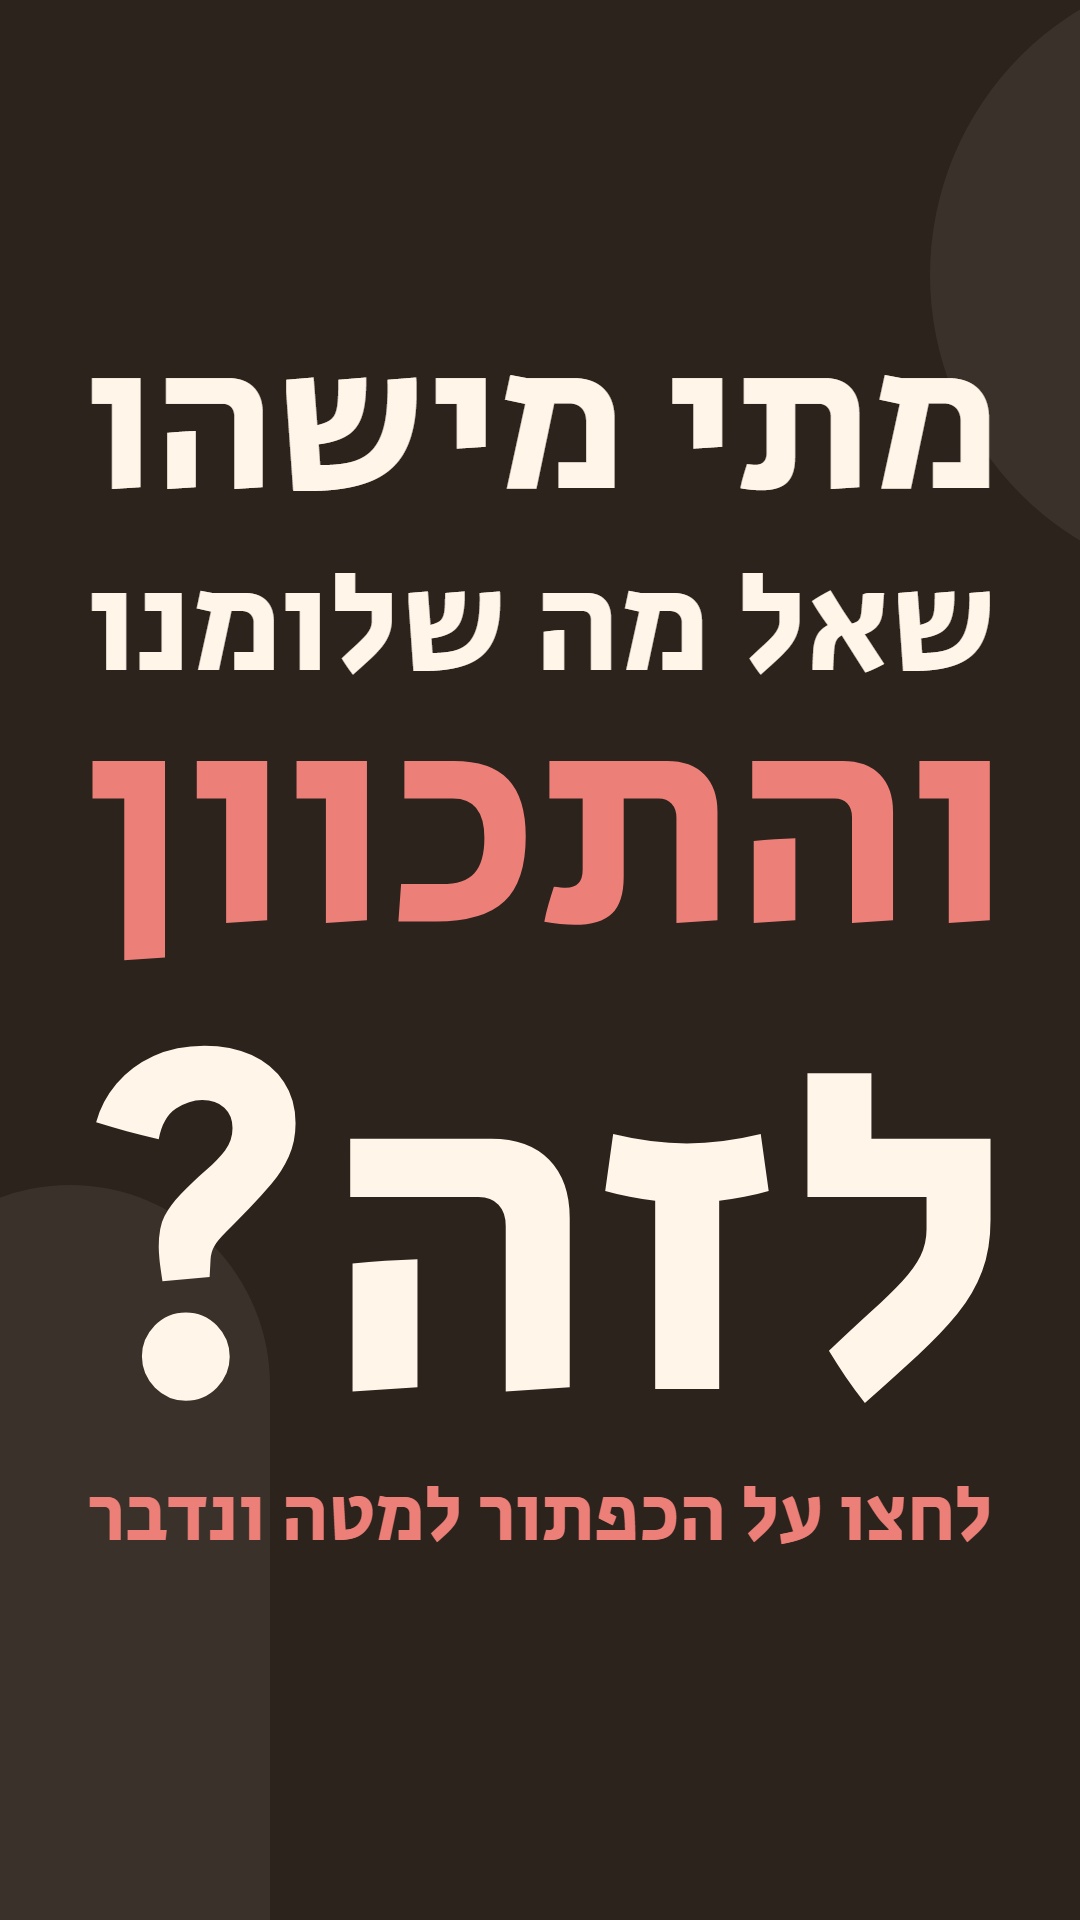
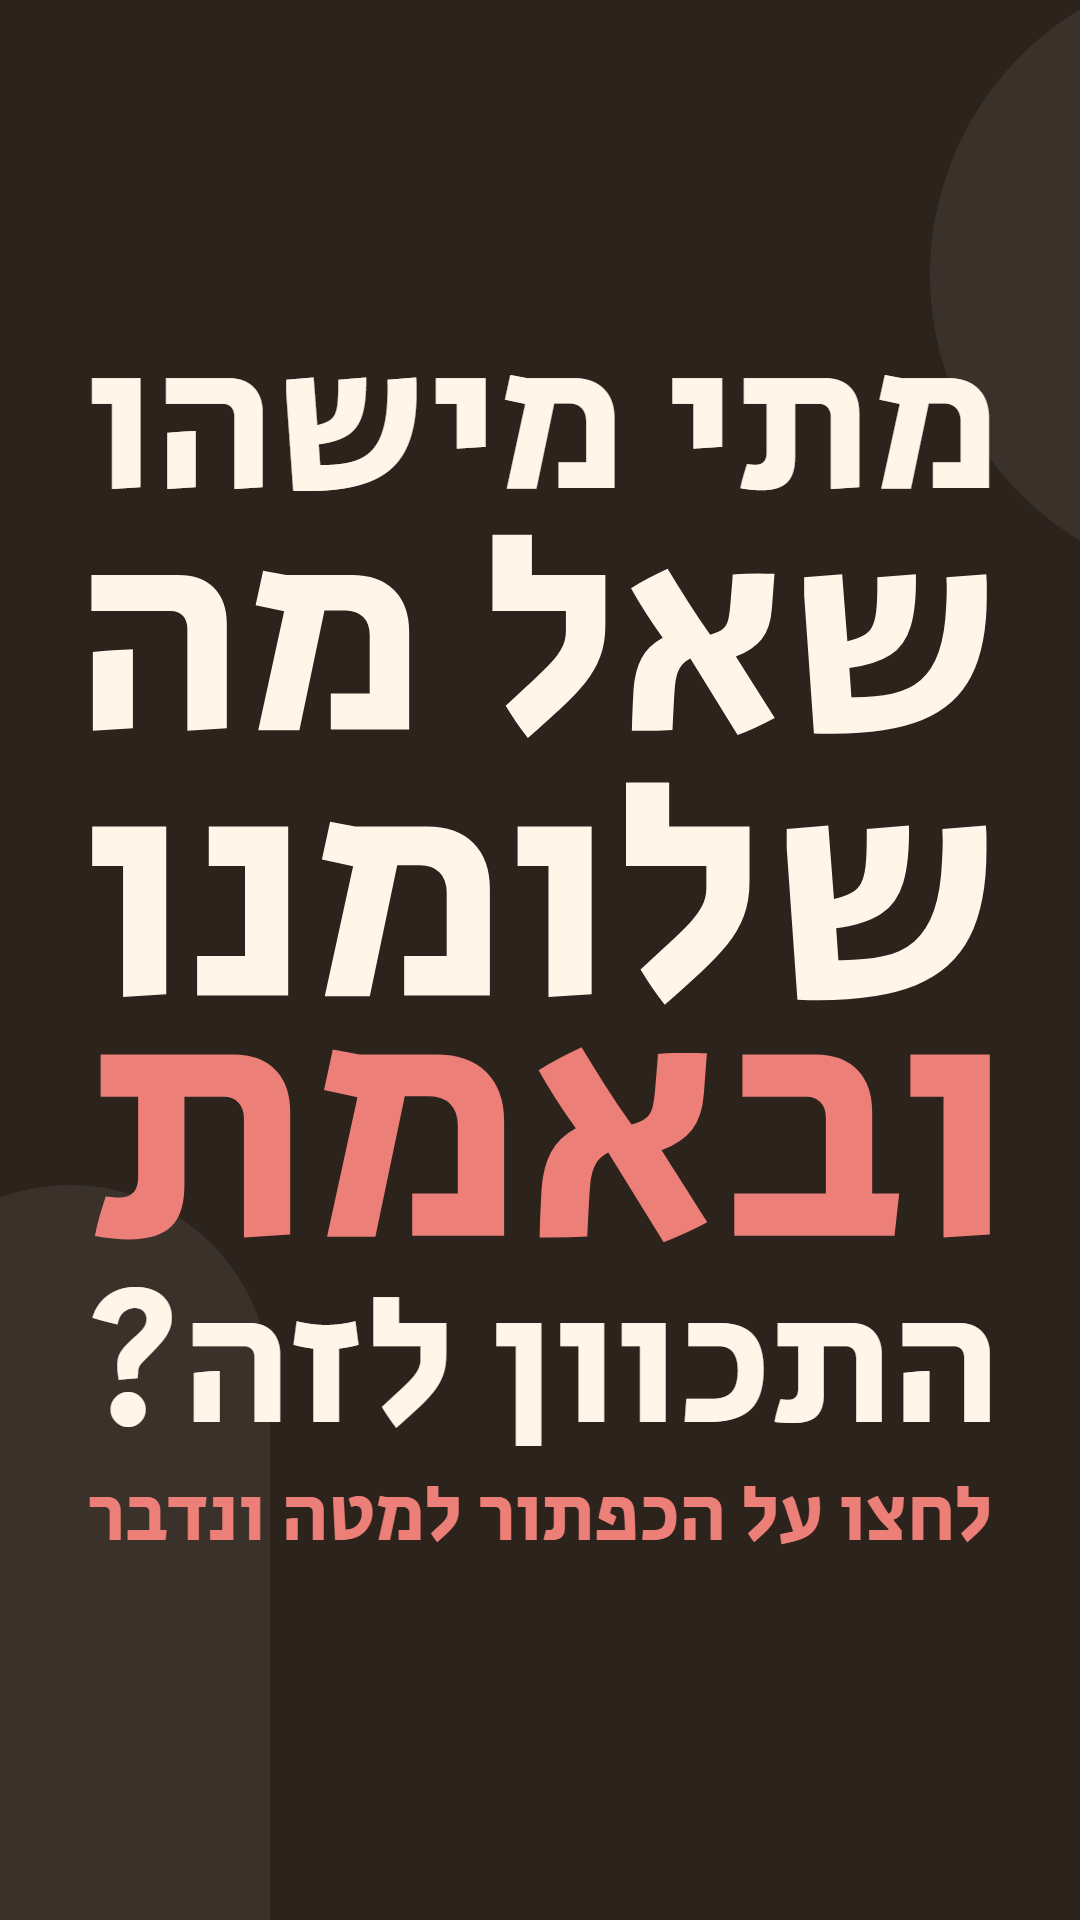
deploy test

Changed region(s): [[0.0611, 0.2812, 0.9167, 0.75]]

diff --git a/privacy/index.html b/privacy/index.html
@@ -54,6 +54,7 @@
       <li>כדי לשלוח הודעות שירות הקשורות לפעילות שלכם, למשל אישור או דחיית דיווח תשלום.</li>
       <li>כדי להבין כיצד משתמשים באתר ולשפר אותו, ולמדוד את יעילות הפרסום שלנו.</li>
       <li>כדי לנהל שיחה עם הבוט שבדף השיחה (chat): השיחה נשמרת אצלנו כדי לשפר את השירות, והתוכן שלה נשלח לספק בינה מלאכותית שמפיק את התשובות. כדאי לא לכתוב בה פרטים מזהים או רגישים.</li>
+      <li>כדי להגן על הצ'אט מניצול לרעה: אנחנו שומרים מזהה אקראי של הדפדפן ותמצית מוצפנת של כתובת הרשת (לא הכתובת עצמה), ומוחקים אותם אחרי כשבועיים.</li>
     </ul>
     <p>אנחנו לא מוכרים מידע אישי, לא משכירים אותו, ולא משתמשים בו לשום מטרה שאינה המטרות שפורטו כאן.</p>
 
@@ -114,7 +115,7 @@
       <p>We do not collect payment card details. Payments are made through an external service (Paybox or another method you choose).</p>
 
       <h2>How we use it</h2>
-      <p>To register you for meetups and manage payments; to contact you about meetups; to provide your personal area; to send service messages (for example, confirmation or rejection of a payment report); to run the chat assistant on the chat page (conversations are saved to improve the service, and their content is sent to an AI provider that generates the replies, so please avoid writing identifying or sensitive details); and to understand and improve how the site is used. We do not sell or rent personal data and do not use it for any other purpose.</p>
+      <p>To register you for meetups and manage payments; to contact you about meetups; to provide your personal area; to send service messages (for example, confirmation or rejection of a payment report); to run the chat assistant on the chat page (conversations are saved to improve the service, and their content is sent to an AI provider that generates the replies, so please avoid writing identifying or sensitive details); to protect the chat from abuse, a random browser identifier and a hashed form of the network address (not the address itself) are kept for about two weeks; and to understand and improve how the site is used. We do not sell or rent personal data and do not use it for any other purpose.</p>
 
       <h2>Who we share it with</h2>
       <p>Access within the site is limited to the two organizers. We use service providers that process data on our behalf: Supabase (database and authentication), Google (Sign-In and Analytics), Meta (advertising measurement), Anthropic (AI provider for the chat assistant), Resend (email delivery), Paybox and other payment services, and WhatsApp when you choose to start a chat with us. We do not share personal data with other third parties except where required by law.</p>

diff --git a/shared/chat.js b/shared/chat.js
@@ -6,6 +6,9 @@
   const q = new URLSearchParams(location.search);
   const cid = (q.get('c') || '').slice(0, 40);
   const src = (q.get('s') || '').slice(0, 20);
+  // מזהה אקראי של המכשיר (לא טביעת אצבע), נשלח לשרת רק להגנה מניצול לרעה של הצ'אט
+  const DEVKEY = 'harpatka_chat_dev';
+  let device = ''; try { device = localStorage.getItem(DEVKEY) || ''; if (!device) { device = (crypto.randomUUID ? crypto.randomUUID() : String(Math.random()).slice(2) + Date.now()); localStorage.setItem(DEVKEY, device); } } catch (e) {}
   // הפונקציה רצה בפרויקט ה-Supabase של floa (אותו אחד של הרוסטר), לא בפרויקט הישן של הרפתקה
   const CHAT_SB = (CONFIG.rosterApi && CONFIG.rosterApi.authUrl) ? { url: CONFIG.rosterApi.authUrl, key: CONFIG.rosterApi.authKey } : { url: CONFIG.supabaseUrl, key: CONFIG.supabaseKey };
   const ENDPOINT = (window.CHAT_ENDPOINT || (CHAT_SB.url + '/functions/v1/harpatka-chat'));
@@ -29,7 +32,7 @@
       const r = await fetch(ENDPOINT, {
         method: 'POST', signal: ctl.signal,
         headers: { 'Content-Type': 'application/json', apikey: CHAT_SB.key, Authorization: 'Bearer ' + CHAT_SB.key },
-        body: JSON.stringify({ mode: 'opening', session, ad: cid, src }),
+        body: JSON.stringify({ mode: 'opening', session, ad: cid, src, device }),
       });
       const d = await r.json().catch(() => ({}));
       return r.ok && Array.isArray(d.messages) ? { messages: d.messages.map(String).filter(Boolean).slice(0, 3), chips: Array.isArray(d.chips) ? d.chips.map(String) : [] } : null;
@@ -95,7 +98,7 @@
         const r = await fetch(ENDPOINT, {
           method: 'POST',
           headers: { 'Content-Type': 'application/json', apikey: CHAT_SB.key, Authorization: 'Bearer ' + CHAT_SB.key },
-          body: JSON.stringify({ session: st.session, messages: st.msgs.map((m) => ({ role: m.role, content: m.content })), ad: cid, adText: openerInfo.ad, opening: openerInfo.opening.join('\n'), src }),
+          body: JSON.stringify({ session: st.session, messages: st.msgs.map((m) => ({ role: m.role, content: m.content })), ad: cid, adText: openerInfo.ad, opening: openerInfo.opening.join('\n'), src, device }),
         });
         const d = await r.json().catch(() => ({}));
         if (!r.ok && !d.reply) throw new Error(String(r.status));

diff --git a/chat/index.html b/chat/index.html
@@ -27,7 +27,7 @@
   <script src="../shared/rt.js?v=1"></script>
   <script src="../shared/person-form.js?v=20261105b"></script>
   <script src="../shared/register.js?v=20261118a"></script>
-  <script src="../shared/chat.js?v=20261123d"></script>
+  <script src="../shared/chat.js?v=20261123e"></script>
   <script>HarpatkaChat.init({ root: document.getElementById('chatRoot') });</script>
 </body>
 </html>

diff --git a/ads/tools/build_chat_ads.py b/ads/tools/build_chat_ads.py
@@ -19,7 +19,7 @@ ADS = {
   "lost": ([("מתי בפעם", "fg"), ("האחרונה", "fg"), ("ירדנו", "fg"), ("לשחק?", "acc")], "#FF8A5C"),
   "dim": ([("אין על מה", "fg"), ("להתלונן", "fg"), ("ובכל זאת", "fg"), ("משהו בפנים", "fg"), ("כבוי", "acc")], "#8DB255"),
   "years": ([("עוד שנה עברה", "fg"), ("ואנחנו עדיין", "fg"), ("מחכים", "acc"), ("שהחיים יתחילו", "fg")], "#E5562D"),
-  "unseen": ([("מתי מישהו", "fg"), ("שאל מה שלומנו", "fg"), ("והתכוון", "acc"), ("לזה?", "fg")], "#EC7F78"),
+  "unseen": ([("מתי מישהו", "fg"), ("שאל מה שלומנו", "fg"), ("ובאמת", "acc"), ("התכוון לזה?", "fg")], "#EC7F78"),
   "crowd": ([("כל היום", "fg"), ("עם אנשים", "fg"), ("ובערב", "fg"), ("הכי לבד", "acc")], "#FFD8AE"),
   "numb": ([("הכי מפחיד", "fg"), ("זה לא שהכול רע", "fg"), ("זה שהכול בסדר,", "fg"), ("ואנחנו כבר", "acc"), ("לא מרגישים", "acc")], "#E5562D"),
 }
